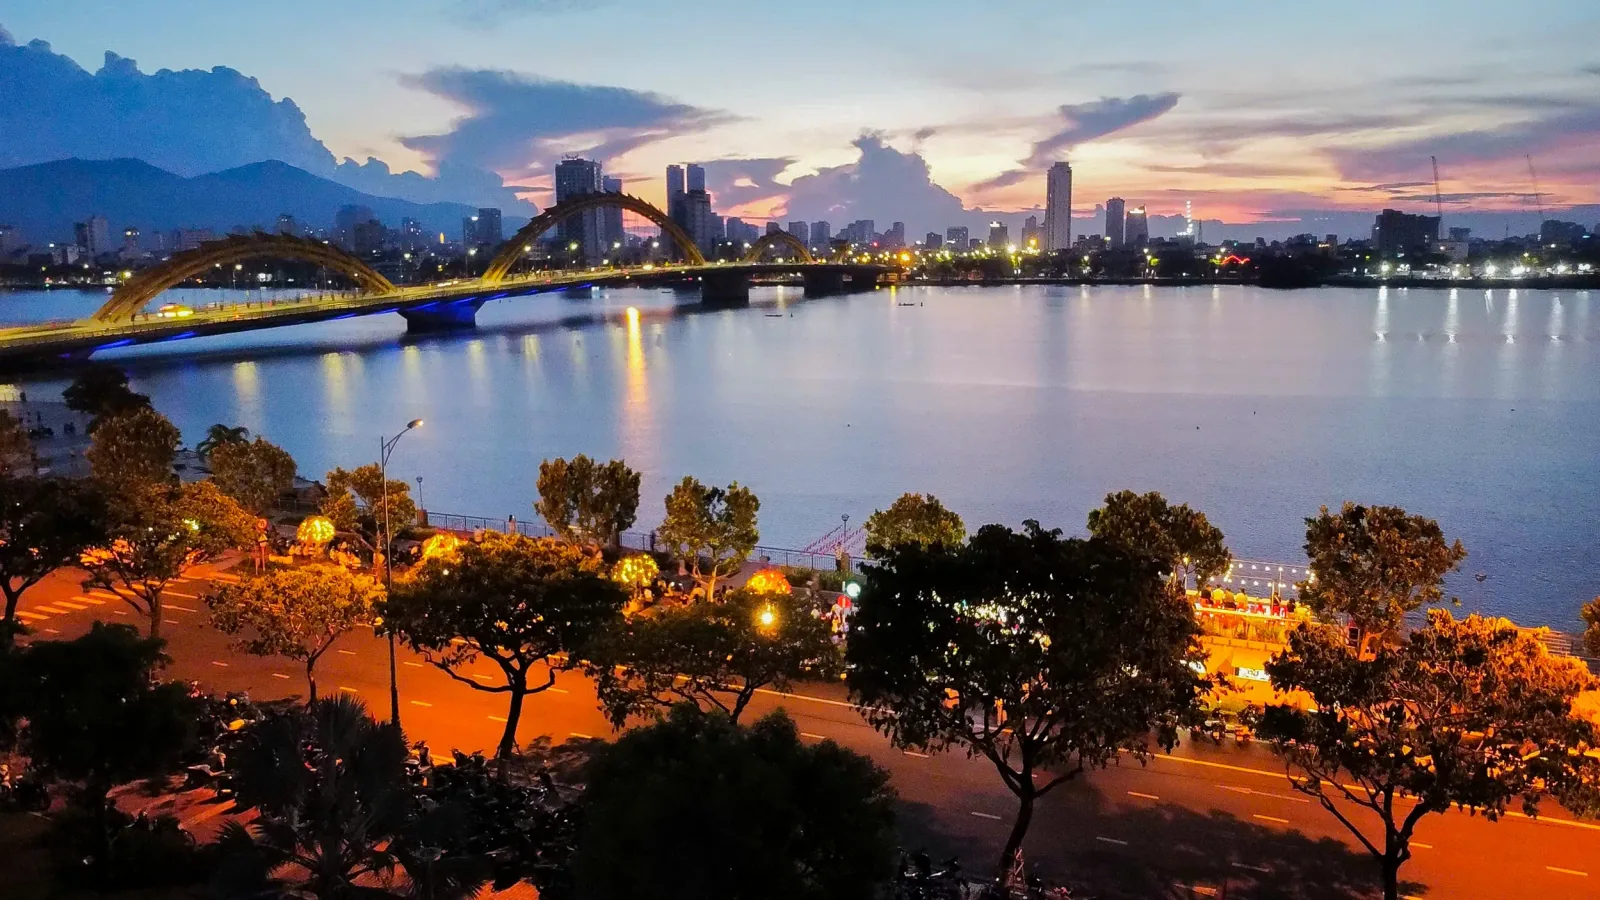
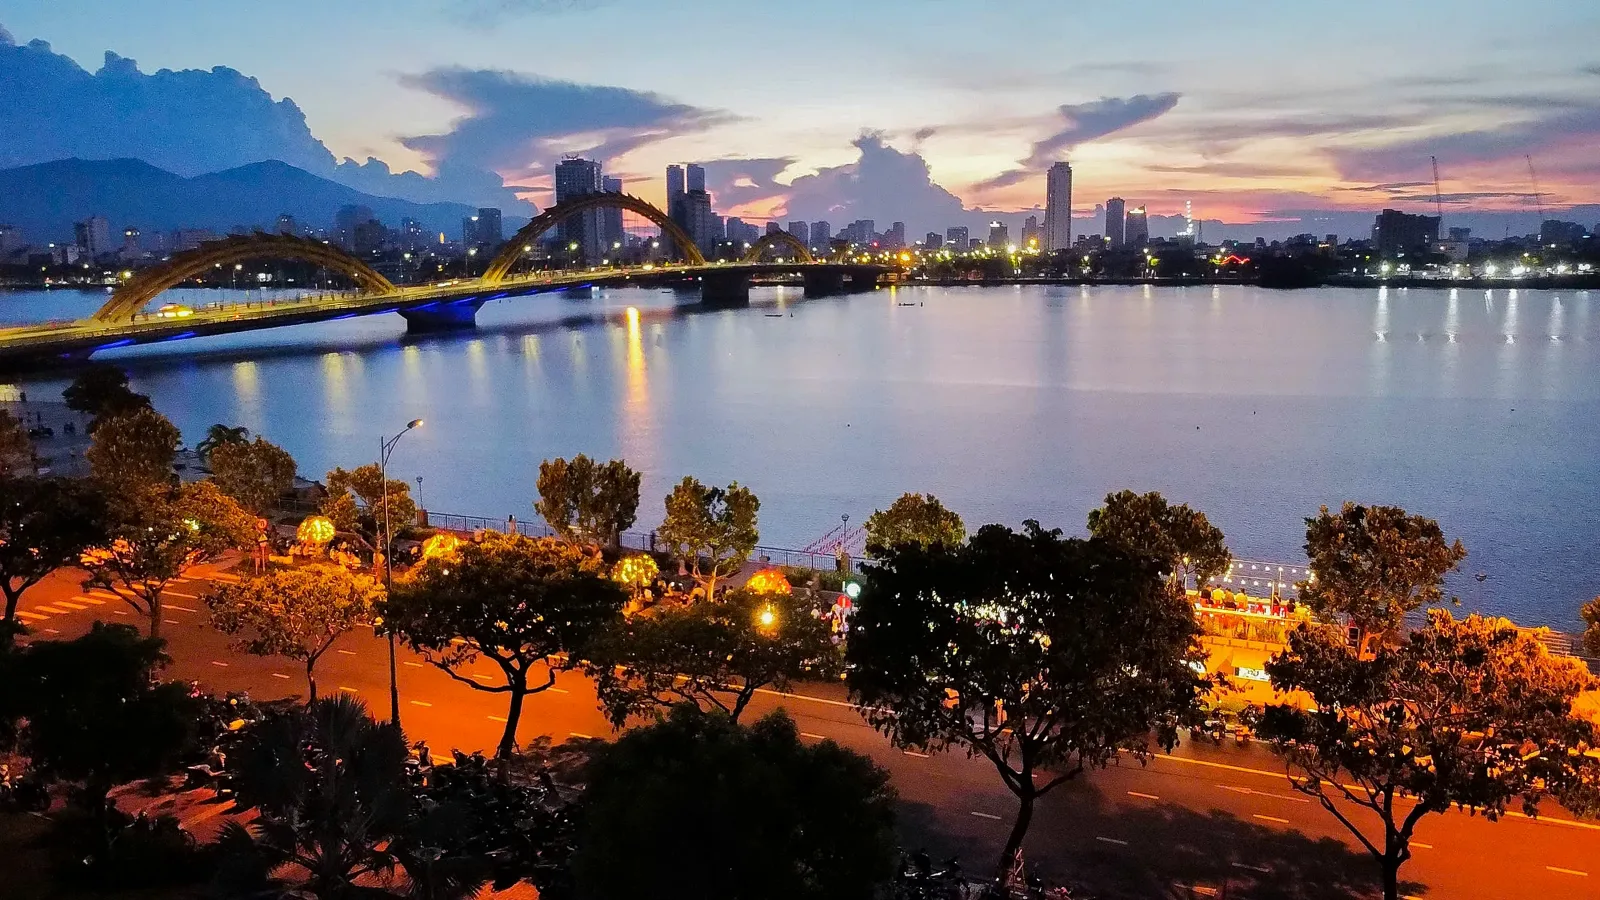
Landing: sharper hero photo (re-exported from the 2499 px original, light denoise and sharpen); closing band and How it works load the 2400 px file; 640 px sunset photo dropped

diff --git a/src/Landing.tsx b/src/Landing.tsx
@@ -8,8 +8,6 @@ import hero2400 from "./assets/hero/hero-2400.webp";
 import hero1600 from "./assets/hero/hero-1600.webp";
 import heroM960 from "./assets/hero/hero-m-960.webp";
 import heroM640 from "./assets/hero/hero-m-640.webp";
-import sunset640 from "./assets/hero/sunset-640.webp";
-
 /* PotKit landing (potkit.pro). Structure and scroll feel follow the "open finance" landing pages: a full-bleed photo hero that
    shrinks into framed art while the headline splits, a floating pill navigation, a pinned block whose cards and charts change
    as you scroll, large counting numerals, large type, a numbered walkthrough and a closing band. All code, copy and assets are PotKit's.
@@ -196,7 +194,8 @@ export function Landing() {
               </ol>
             </div>
             <figure className="lp-how-art" ref={artRef}>
-              <img src={hero1600} width={1600} height={900} loading="lazy" decoding="async" alt="" />
+              {/* the picture is shown about 1.9x enlarged, so it asks for the large file */}
+              <img src={hero2400} srcSet={`${hero1600} 1600w, ${hero2400} 2400w`} sizes="(max-width: 900px) 200vw, 100vw" width={2400} height={1350} loading="lazy" decoding="async" alt="" />
               <figcaption className="lp-doc" aria-label="Illustrative receipt">
                 <span className="lp-tag">Illustrative example · not live data</span>
                 <dl>
@@ -229,7 +228,8 @@ export function Landing() {
         {/* closing band */}
         <section className="lp-final" id="start">
           <picture className="lp-pic">
-            <img src={sunset640} width={640} height={480} loading="lazy" decoding="async" alt="" />
+            <source media="(max-width: 700px)" srcSet={`${heroM640} 640w, ${heroM960} 960w`} sizes="100vw" />
+            <img src={hero1600} srcSet={`${hero1600} 1600w, ${hero2400} 2400w`} sizes="100vw" width={1600} height={900} loading="lazy" decoding="async" alt="" />
           </picture>
           <div className="lp-hero-shade final" aria-hidden />
           <div className="lp-wrap lp-final-in lp-rv">

diff --git a/src/lp/lp.css b/src/lp/lp.css
@@ -267,8 +267,8 @@ html[data-route="landing"]:has(.lp), html[data-route="landing"]:has(.lp) body { 
 
 /* ---------- closing band ---------- */
 .lp-final { position: relative; display: grid; place-items: center; min-height: 32rem; color: #fff; text-align: center; background: #0d1626; overflow: hidden; }
-.lp-final .lp-pic img { object-position: 50% 55%; }
-.lp-hero-shade.final { opacity: 1; background: linear-gradient(to bottom, rgba(8, 13, 23, .42), rgba(8, 13, 23, .58)); }
+.lp-final .lp-pic img { object-position: 50% 30%; }
+.lp-hero-shade.final { opacity: 1; background: linear-gradient(to bottom, rgba(8, 13, 23, .38), rgba(8, 13, 23, .6)); }
 .lp-final-in { position: relative; z-index: 2; padding-block: 5rem; }
 .lp-final h2 { color: #fff; max-width: 40rem; margin-inline: auto; }
 .lp-final p { max-width: 32rem; margin: 1rem auto 2rem; color: rgba(255, 255, 255, .88); }

diff --git a/DEVLOG.md b/DEVLOG.md
@@ -231,7 +231,7 @@ The contract, API and script files first appear in `04cfd1c`; `contracts/` and `
   - Dark theme without violet: every violet-hued colour in the app layers was remapped by lightness (violet-black to ink, saturated violet to bronze, lavender grey to warm grey), primary buttons are warm ivory with ink text, and the old gradients and glows are flat. A scan of all eight tabs finds no violet colour left in either theme and no text below AA contrast.
   - Privy (branch `privy-wallet`, 4 Nov): `@privy-io/react-auth` 3.50.0 (pinned; released 16 Oct) connects external wallets only. It is loaded as its own chunk and only when `VITE_PRIVY_APP_ID` is set; the connected wallet's EIP-1193 provider is handed to the existing wallet code, so signing and every transaction path are unchanged. Without the variable, or if Privy fails to start (checked with an invalid App ID), the app keeps its own picker. `.npmrc` sets `legacy-peer-deps` because Privy lists smart-account packages as optional peers that conflict with the viem in use; `@stripe/stripe-js` 1.54.2 was added because Privy's bundle imports it. The app without Privy loads about 47 KB more JavaScript (shared viem modules). Not tested with a real App ID or a real wallet.
   - Privy with the real App ID (5 Nov): the modal opens on localhost 4173 and 8080 with no page errors. The list is short (detected wallets, MetaMask, OKX; WalletConnect's 599-wallet search left out) and the modal follows the light/dark switch while it is open. A real wallet connect and transaction are still to be done by the author.
-  - Landing and app clean-up (5 Nov): no announcement bar (the "unaudited" note stays in Honest limits); the closing band uses a second Dragon Bridge photo at sunset (`sunset-640.webp`, re-encoded through a canvas so no metadata is kept) instead of repeating the hero; the How it works picture is cropped to the bridge and river so the orange road no longer shows while it moves; the app's "Home" hover label on the logo and the breadcrumb home icon is gone.
+  - Landing and app clean-up (5 Nov): no announcement bar (the "unaudited" note stays in Honest limits); the hero photo was exported again from the 2499 px original with light noise reduction and sharpening (no change of tone; `hero-2400.webp` 579 KB, `hero-1600.webp` 277 KB, no metadata), and the closing band and the How it works picture now load the 2400 px file where they need it (a 640 px sunset photo tried for the closing band was dropped as too soft); the How it works picture is cropped to the bridge and river so the orange road no longer shows while it moves; the app's "Home" hover label on the logo and the breadcrumb home icon is gone.
   - Test count after the redesign: 84 (was 81 before `series.ts`) (one new test for the singular share unit); README, DoraHacks text and slide 7 carry 81.
   - Wallet restore after a reload: see the commit before the branch (ask the remembered wallet again after a failed or empty first answer and when the tab regains focus).
 
